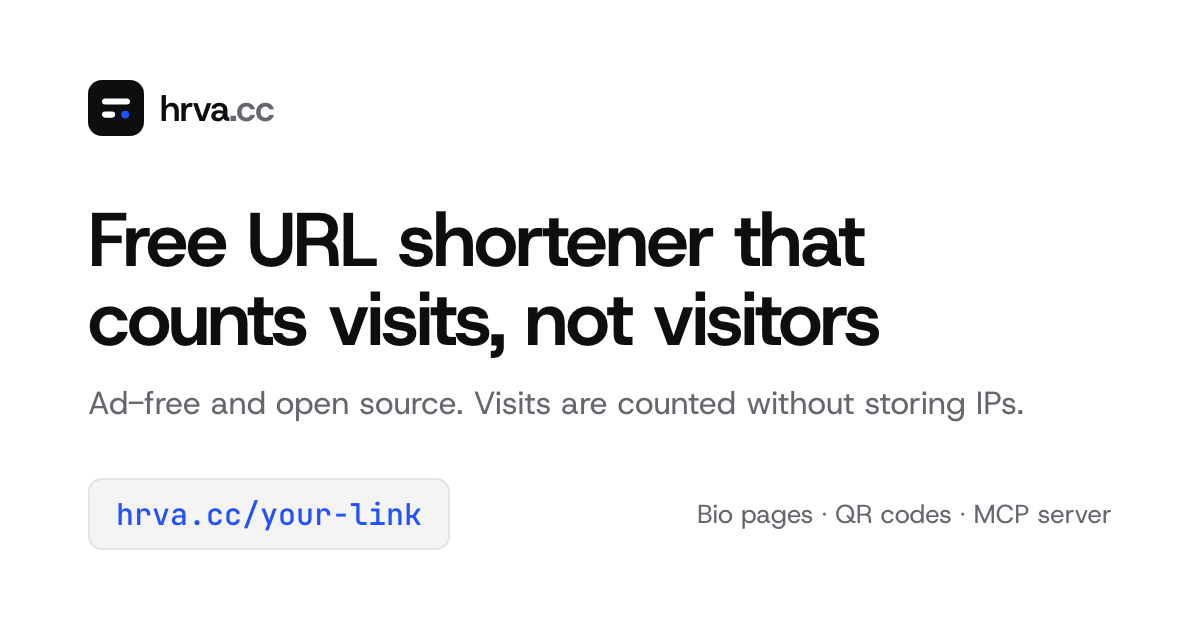
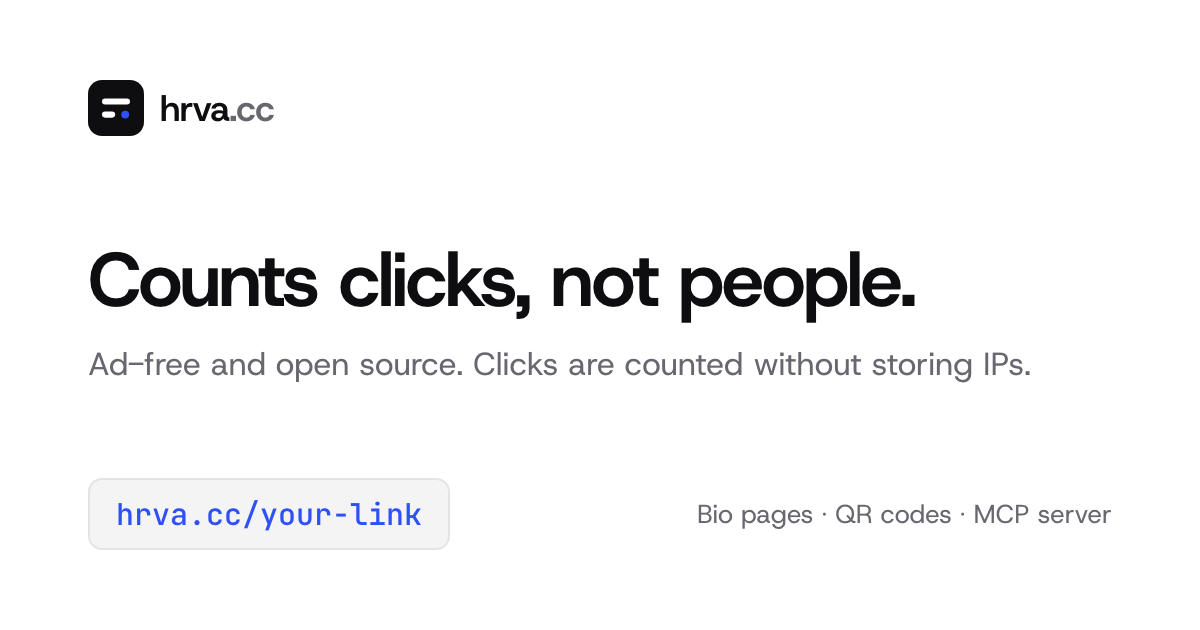
fix: a share image that says counts clicks, not people, clicks in the site description, and a plainer about description

Changed region(s): [[0.0617, 0.3317, 0.8633, 0.6635]]

diff --git a/lib/seo.ts b/lib/seo.ts
@@ -17,7 +17,7 @@ export const SLOGAN = "Counts clicks, not people."
 export const HOME_TITLE_TEXT = "Free URL shortener that counts clicks, not people"
 export const HOME_TITLE = `${HOME_TITLE_TEXT} ${MIDDLE_DOT} ${SITE_NAME}`
 export const HOME_DESCRIPTION =
-  "Free, ad-free URL shortener from Croatia. Visits are counted without storing IPs. Open source, with link-in-bio pages, QR codes and an MCP server for Claude and ChatGPT."
+  "Free, ad-free URL shortener from Croatia. Clicks are counted without storing IPs. Open source, with link-in-bio pages, QR codes and an MCP server for Claude and ChatGPT."
 export const ENTITY_SENTENCE =
   "hrva.cc is a free, open-source URL shortener from HrvaLabs, with link-in-bio pages and an MCP server for AI assistants."
 

diff --git a/app/about/page.tsx b/app/about/page.tsx
@@ -6,7 +6,7 @@ import { StaticPage, SummaryBox } from "@/components/static-page"
 import { AUTHOR_NAME, AUTHOR_URL, PUBLISHER_URL, absoluteUrl, pageMetadata } from "@/lib/seo"
 
 const description =
-  "About hrva.cc: a free, privacy-first, open-source URL shortener and HrvaLabs hobby project from Croatia. Who runs it and how it is paid for."
+  "About hrva.cc: a free, open-source URL shortener from HrvaLabs. Who runs it and how it's paid for."
 
 export const metadata: Metadata = pageMetadata({ title: "About hrva.cc: who runs this free URL shortener", description, path: "/about", absolute: true })
 
